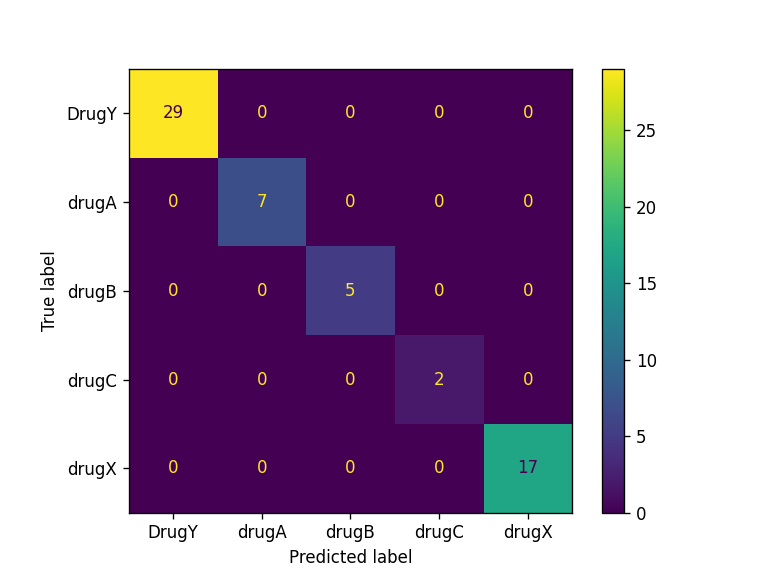
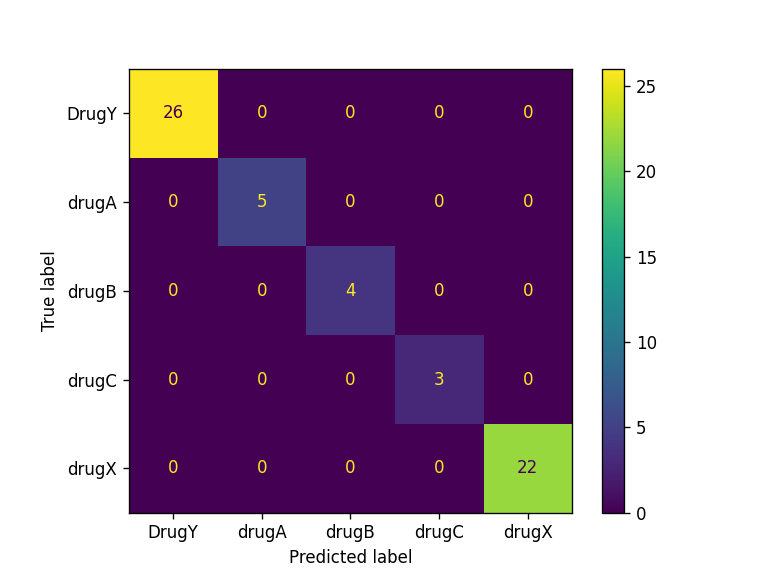
Update with new results

diff --git a/report.md b/report.md
@@ -1,0 +1,5 @@
+## Model Metrics
+/nAccuracy : 100.0% /n F1 : 1.0.
+
+## Confusion Matrix Plot
+![Confusion Matrix](./Results/model_results.png)
